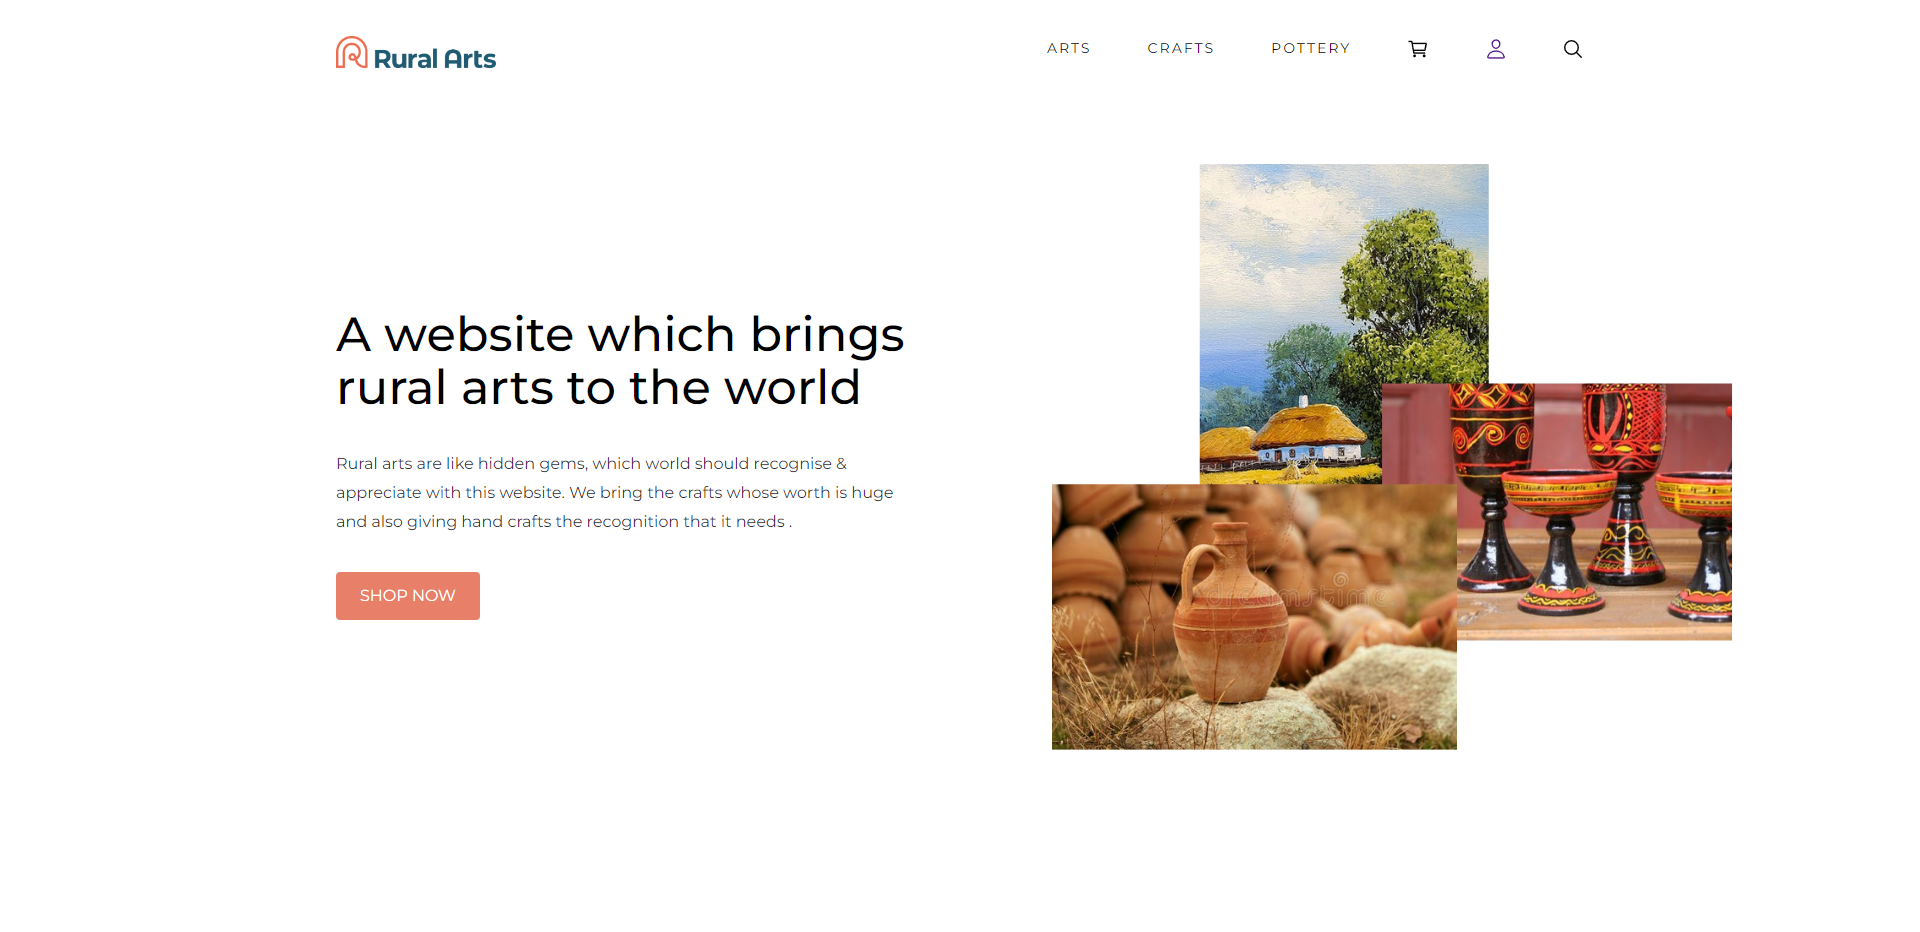
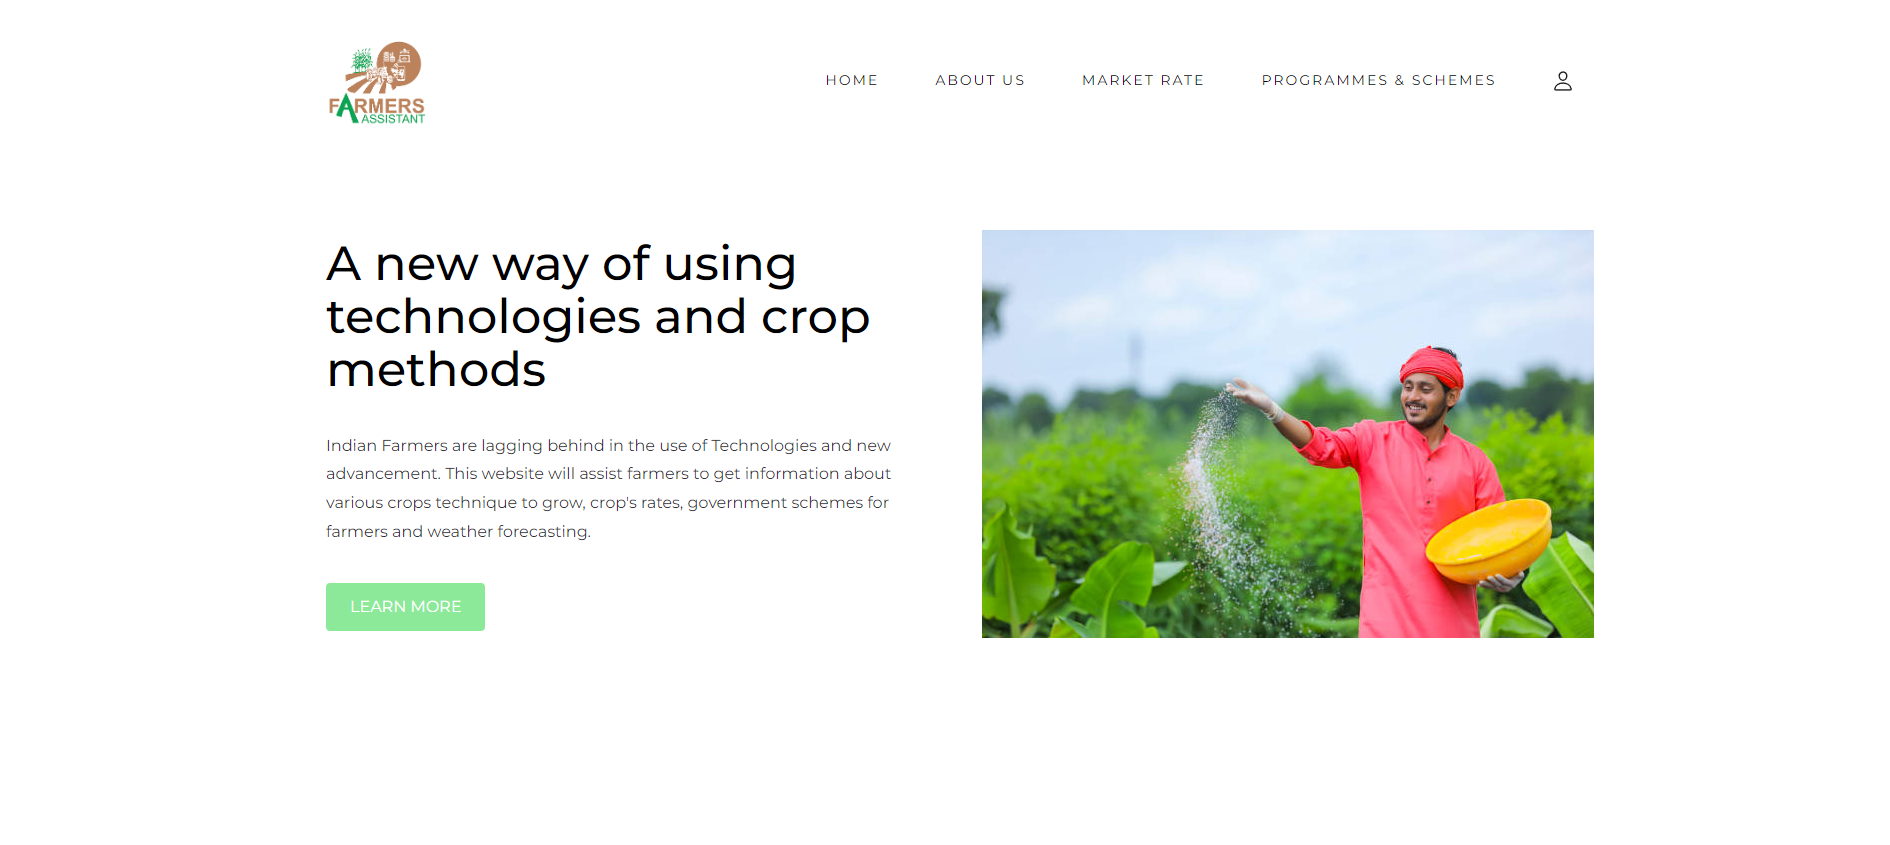
.

diff --git a/README.md b/README.md
@@ -1,5 +1,5 @@
-# Rural Art
-Rural arts are like hidden gems, which world should recognise & appreciate with this website. We bring the crafts whose worth is huge and also giving hand crafts the recognition that it needs .
+# Farmers Assistance
+A website which will assist farmers to get information about various crops technique to grow, crop'srates, government schemes for farmers and weather forecasting.
 
 ### Screenshot
 
@@ -7,10 +7,6 @@ Rural arts are like hidden gems, which world should recognise & appreciate with 
 
 ### Links
 
-- Live Site URL: [https://rural-arts.vercel.app/]
+- Live Site URL: [https://farmers-assistance-10.vercel.app/]
 
-### Built with
 
-- HTML
-- SCSS
-- Vanilla Javascript
